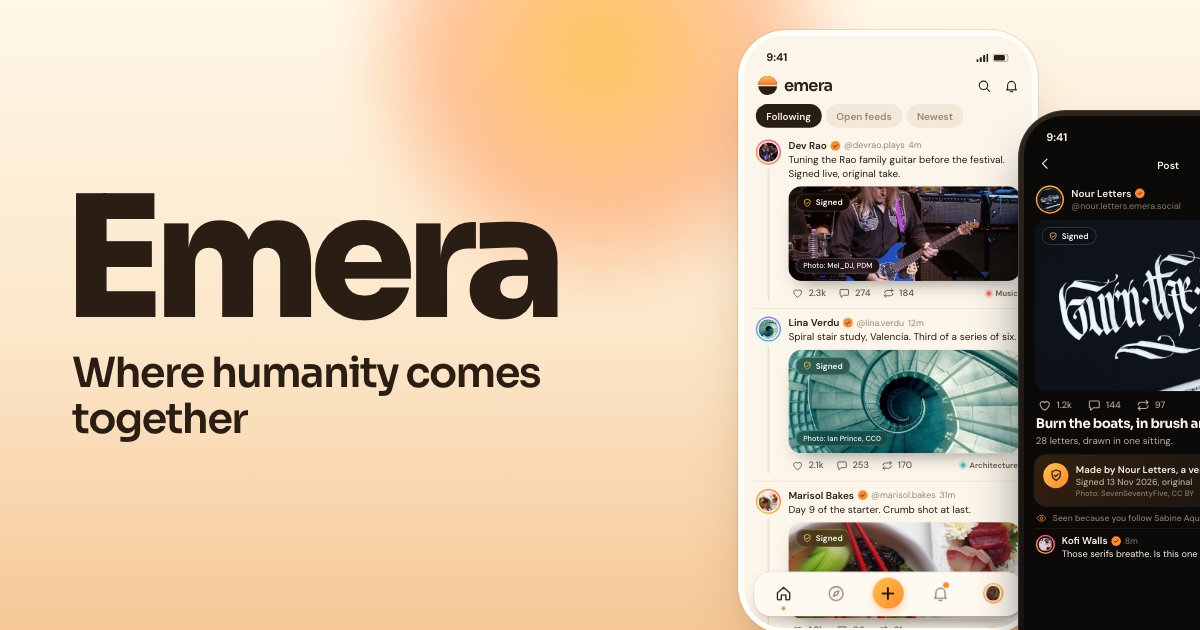
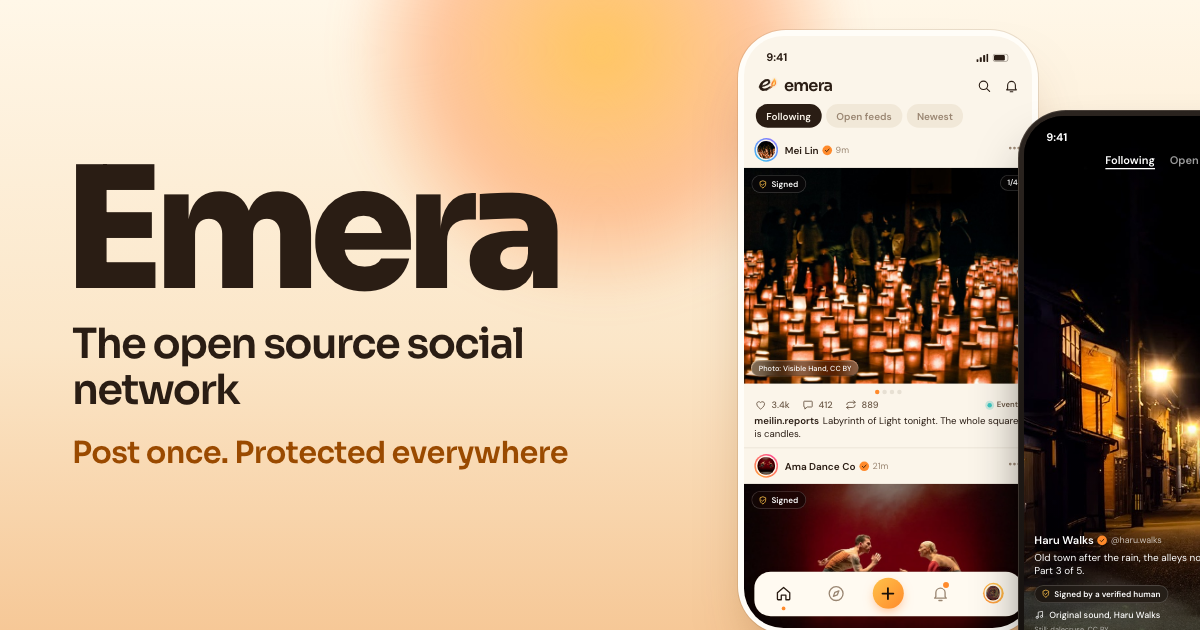
copy: "Post once. Protected everywhere" under the headline on both link cards and the hero
Replaces "AI broke the internet, let's fix it" on the GitHub card. Headline unchanged.
Line lives in brand.json (promise). Not deployed.

diff --git a/apps/site/public/index.html b/apps/site/public/index.html
@@ -91,6 +91,7 @@ a{color:inherit}
 h1{font:800 clamp(4.6rem,13.4vw,11.5rem)/.86 var(--disp);letter-spacing:-.065em;margin:20px 0 0}
 h1 .nm{display:block;margin-left:-.05em}
 .tagline{display:block;font:600 clamp(1.5rem,3.1vw,2.5rem)/1.1 var(--disp);letter-spacing:-.04em;margin-top:clamp(14px,2.4vh,26px);max-width:14em}
+.promise{font:600 clamp(1.1rem,1.9vw,1.45rem)/1.2 var(--disp);letter-spacing:-.02em;color:var(--sunink);margin-top:clamp(12px,1.8vh,18px)}
 .lead{font-size:clamp(1.02rem,1.5vw,1.2rem);color:var(--ink2);max-width:29em;margin-top:16px}
 .signup{display:flex;gap:8px;margin-top:30px;max-width:520px;padding:6px;border-radius:999px;background:color-mix(in srgb,var(--card) 82%,transparent);border:1px solid var(--line);backdrop-filter:blur(12px);box-shadow:var(--shadow)}
 .signup input[type=email]{flex:1;min-width:0;border:0;background:transparent;font:inherit;font-size:1.02rem;color:var(--ink);padding:0 8px 0 20px;outline:none}
@@ -388,6 +389,7 @@ blockquote p+p{margin-top:.7em;font-size:clamp(1.1rem,1.8vw,1.45rem);font-weight
       <div class="copy">
         <div data-e="6161ea71" class="eyebrow"><b></b>Where humanity comes together</div>
         <h1><span data-e="acfdd57c" class="nm">Emera</span><span data-e="6dc38497" class="tagline">The open source social network</span></h1>
+        <p data-e="62ca2c79" class="promise">Post once. Protected everywhere</p>
         <p data-e="290a9294" class="lead">Fakes, bots and copies are drowning out real people online. Emera is a fair, honest place to share and talk, where the people are real, what you post keeps your name on it, and the rules are public.</p>
         <form class="signup" data-signup novalidate>
           <input type="email" name="email" placeholder="you@email.com" autocomplete="email" aria-label="Email address" required>

diff --git a/apps/site/src/index.template.html b/apps/site/src/index.template.html
@@ -91,6 +91,7 @@ a{color:inherit}
 h1{font:800 clamp(4.6rem,13.4vw,11.5rem)/.86 var(--disp);letter-spacing:-.065em;margin:20px 0 0}
 h1 .nm{display:block;margin-left:-.05em}
 .tagline{display:block;font:600 clamp(1.5rem,3.1vw,2.5rem)/1.1 var(--disp);letter-spacing:-.04em;margin-top:clamp(14px,2.4vh,26px);max-width:14em}
+.promise{font:600 clamp(1.1rem,1.9vw,1.45rem)/1.2 var(--disp);letter-spacing:-.02em;color:var(--sunink);margin-top:clamp(12px,1.8vh,18px)}
 .lead{font-size:clamp(1.02rem,1.5vw,1.2rem);color:var(--ink2);max-width:29em;margin-top:16px}
 .signup{display:flex;gap:8px;margin-top:30px;max-width:520px;padding:6px;border-radius:999px;background:color-mix(in srgb,var(--card) 82%,transparent);border:1px solid var(--line);backdrop-filter:blur(12px);box-shadow:var(--shadow)}
 .signup input[type=email]{flex:1;min-width:0;border:0;background:transparent;font:inherit;font-size:1.02rem;color:var(--ink);padding:0 8px 0 20px;outline:none}
@@ -203,6 +204,7 @@ blockquote p+p{margin-top:.7em;font-size:clamp(1.1rem,1.8vw,1.45rem);font-weight
       <div class="copy">
         <div class="eyebrow"><b></b>{{tagline}}</div>
         <h1><span class="nm">{{name}}</span><span class="tagline">{{line}}</span></h1>
+        <p class="promise">{{promise}}</p>
         <p class="lead">Fakes, bots and copies are drowning out real people online. {{name}} is a fair, honest place to share and talk, where the people are real, what you post keeps your name on it, and the rules are public.</p>
         <form class="signup" data-signup novalidate>
           <input type="email" name="email" placeholder="you@email.com" autocomplete="email" aria-label="Email address" required>
